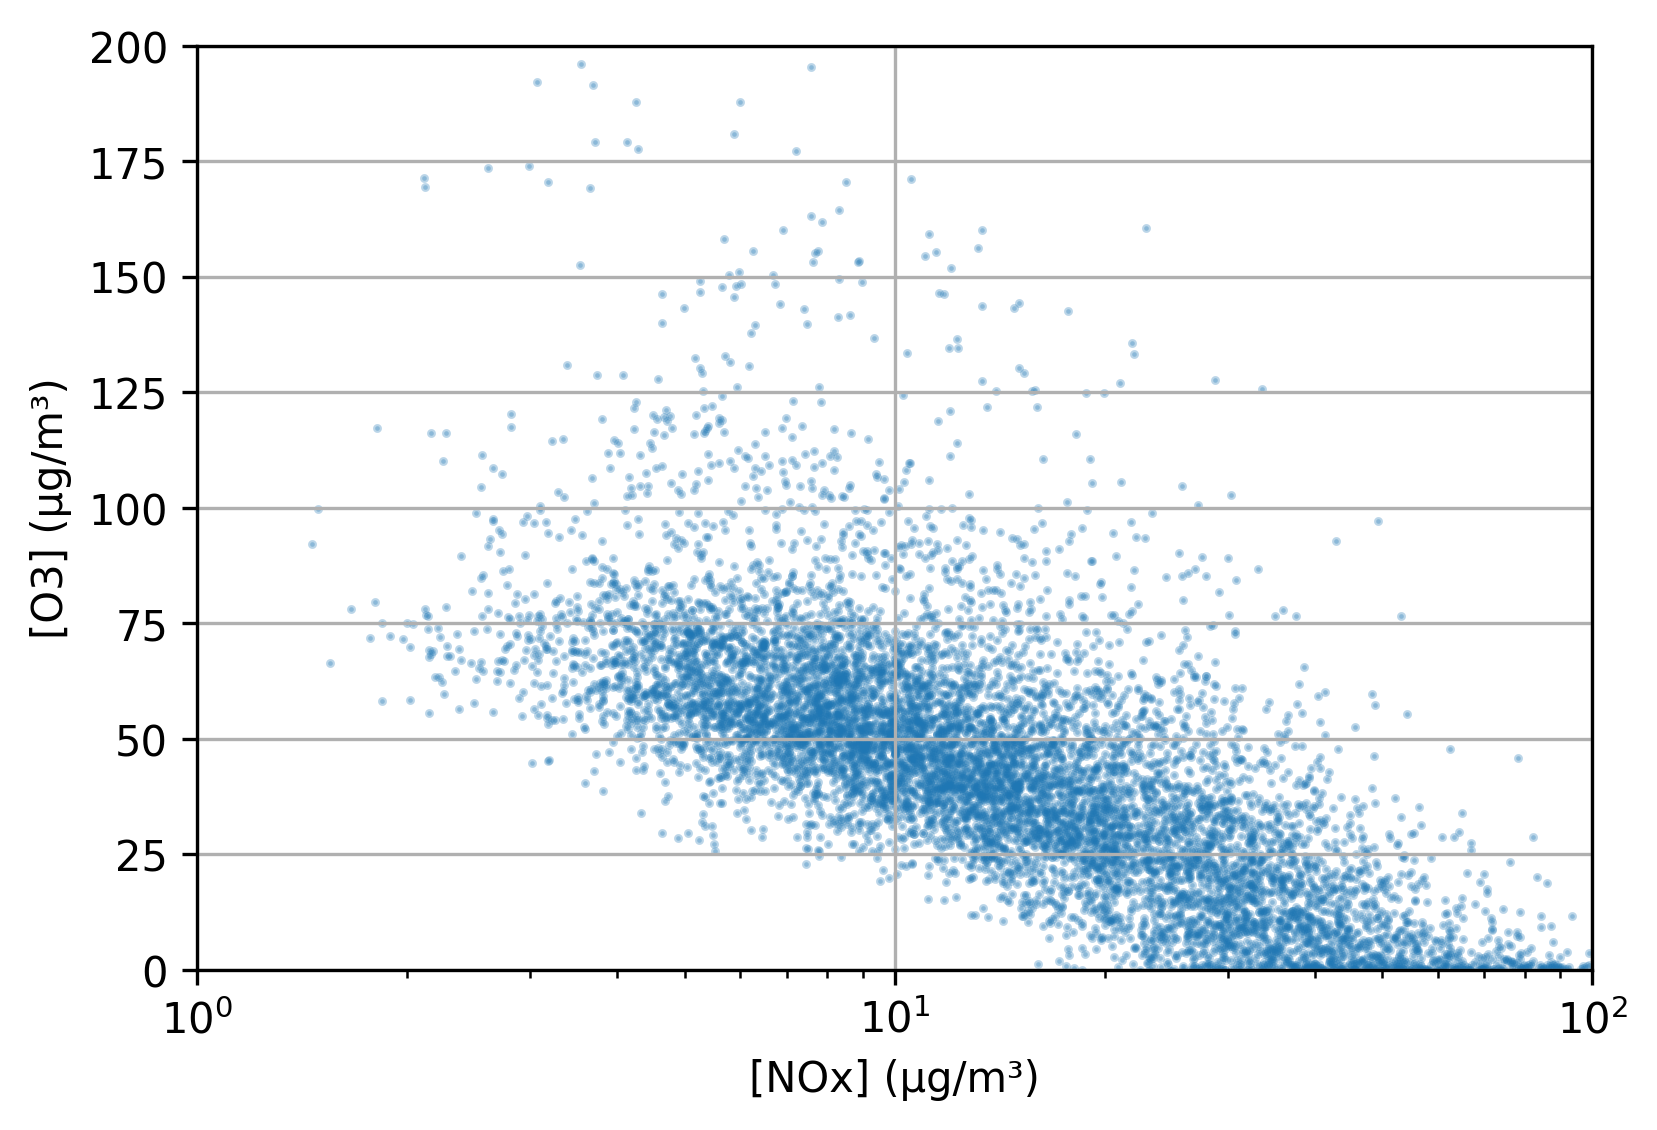
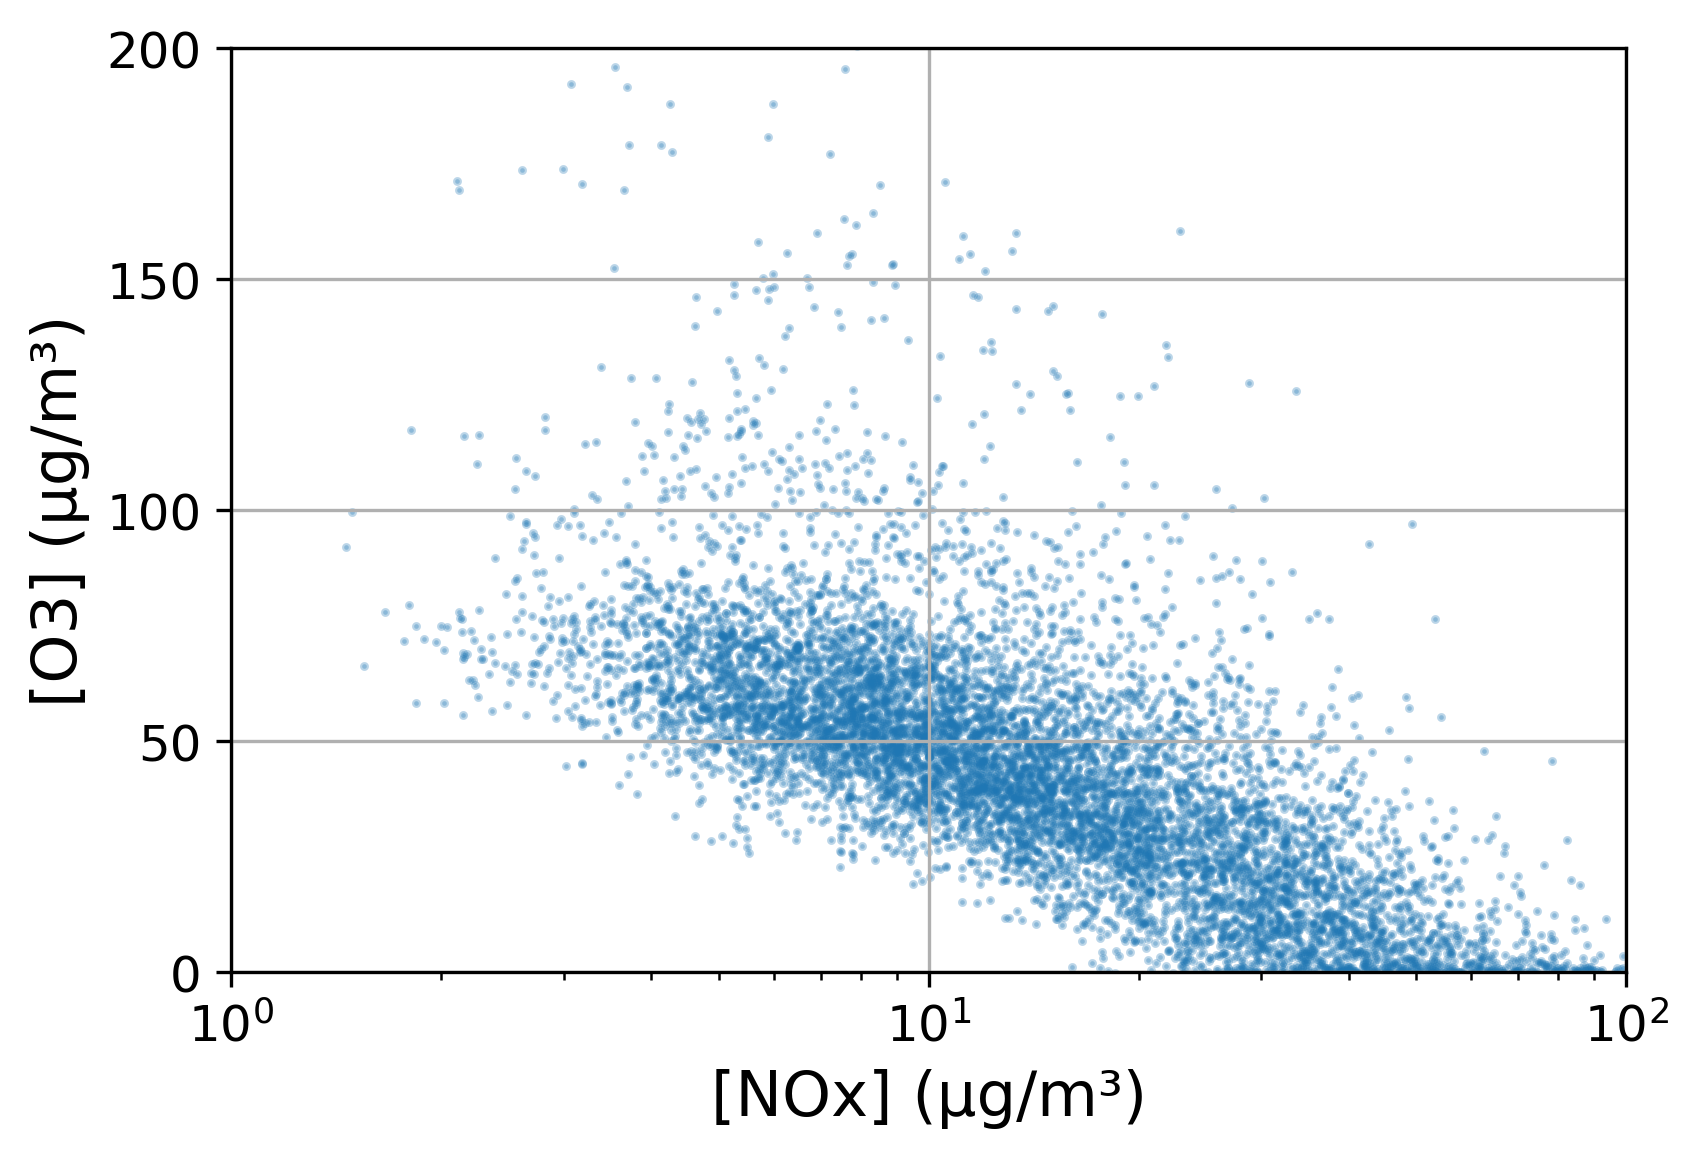
figure adjustments

diff --git a/Question3.py b/Question3.py
@@ -145,10 +145,13 @@ for station, data in station_data.items():
     plt.xscale("log")  # Log scale for NOx
     plt.xlim(1, 100)  # Set x-axis limits
     plt.ylim(0, 200)
-    plt.xlabel("[NOx] (µg/m³)")
-    plt.ylabel("[O3] (µg/m³)")
+    plt.xlabel("[NOx] (µg/m³)", fontsize=15)
+    plt.ylabel("[O3] (µg/m³)", fontsize=15)
     #plt.title(f"{station} Station", fontsize=12, fontweight="bold")
     plt.grid(True)
+
+    plt.yticks([0, 50, 100, 150, 200])  # Adjust values as needed
+    plt.tick_params(axis='both', which='major', labelsize=12)
 
     # Save each figure separately
     plt.savefig(f"{station}_scatter_plot.png", dpi=300, bbox_inches="tight")
